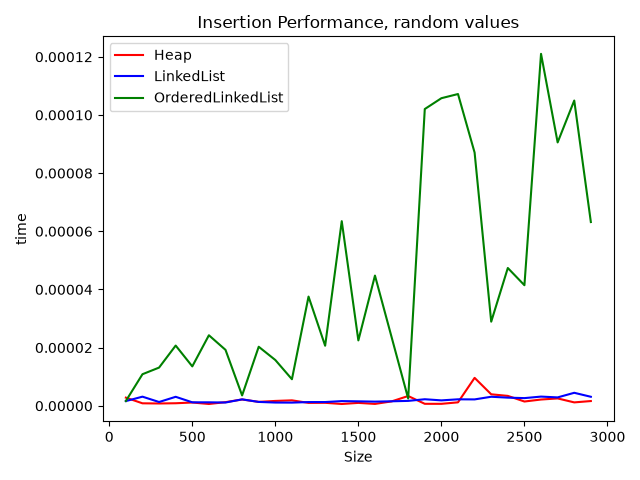
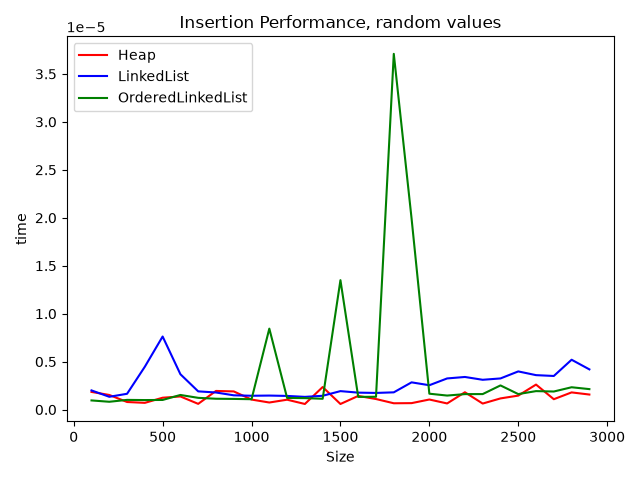
added a length field to the linked lists to make get_len faster

diff --git a/PicchioniEs1LabAlg.py b/PicchioniEs1LabAlg.py
@@ -132,9 +132,11 @@ class LinkedList:
     def __init__(self, head=None, tail=None):
         self.head = head
         self.tail = tail
-
-    def find_set(self):
-        return self.head
+        self.length = 0
+        if head is not None:
+            self.length += 1
+        if tail is not None:
+            self.length += 1
 
     def insert(self, key):
         new_node = Node(key, self, None)
@@ -143,6 +145,7 @@ class LinkedList:
         else:
             self.tail.set_next(new_node)
         self.tail = new_node
+        self.length += 1
 
     def remove(self, key):
         if self.head is None:
@@ -158,6 +161,7 @@ class LinkedList:
                     previous.set_next(node.get_next())
                     if self.tail == node:
                         self.tail = previous
+                self.length -= 1
                 return
             else:
                 previous = node
@@ -179,6 +183,7 @@ class LinkedList:
             previous.set_next(node.get_next())
             if self.tail == node:
                 self.tail = previous
+        self.length -= 1
 
     def get_max(self):
         if self.head is None:
@@ -216,7 +221,8 @@ class LinkedList:
             node_before_max.set_next(current_max_node.get_next())
         else:
             self.head = current_max_node.get_next()
-        return current_max_node
+        self.length -= 1
+        return current_max_value
 
     def increase_key(self, i, key):
         node = self.head
@@ -224,21 +230,16 @@ class LinkedList:
             print("list is empty")
             return
         for _ in range(i):
-            if node.next is None:
+            if node.get_next() is None:
                 print("index out of range")
                 return
-            node = node.next
-        if node.data > key:
+            node = node.get_next()
+        if node.get_data() > key:
             return
-        node.data = key
+        node.set_data(key)
 
     def get_len(self):
-        node = self.head
-        i = 0
-        while node is not None:
-            i += 1
-            node = node.get_next()
-        return i
+        return self.length
 
     def get_value(self, i):
         node = self.head
@@ -268,6 +269,11 @@ class OrderedLinkedList:
     def __init__(self, head=None, tail=None):
         self.head = head
         self.tail = tail
+        self.length = 0
+        if head is not None:
+            self.length += 1
+        if tail is not None:
+            self.length += 1
 
     def is_empty(self):
         return self.head is None
@@ -277,6 +283,7 @@ class OrderedLinkedList:
             new_node = Node(key, self, None)
             self.head = new_node
             self.tail = new_node
+            self.length += 1
             return
 
         node = self.head
@@ -286,19 +293,17 @@ class OrderedLinkedList:
                 new_node = Node(key, self, node)
                 if previous is not None:
                     previous.set_next(new_node)
-                else:
-                    self.head = new_node
-                    self.tail = node
+                    self.length += 1
                 return
             else:
                 previous = node
                 if node.get_next() is None:
                     new_node = Node(key, self, None)
                     node.set_next(new_node)
+                    self.length += 1
                     return
                 else:
                     node = node.next
-        print("error: no matching item to remove was found")
 
     def remove(self, key):
         if self.head is None:
@@ -314,6 +319,7 @@ class OrderedLinkedList:
                     previous.set_next(node.get_next())
                     if self.tail == node:
                         self.tail = previous
+                self.length -= 1
                 return
             else:
                 previous = node
@@ -338,28 +344,34 @@ class OrderedLinkedList:
             previous.set_next(node.get_next())
             if self.tail == node:
                 self.tail = previous
+        self.length -= 1
 
     def get_max(self):
-        return self.head
+        return self.head.get_data()
 
     def remove_max(self):
         if self.head is None:
             return
         max = self.head
         self.head = self.head.get_next()
-        return max
+        self.length -= 1
+        return max.get_data()
 
     def increase_key(self, i, new_key):
+        if self.get_value(i) > new_key:
+            print("error: new_key is lower than the current one")
+            return
         self.remove_at_index(i)
         self.insert(new_key)
 
     def get_len(self):
-        node = self.head
-        i = 0
-        while node is not None:
-            i += 1
-            node = node.get_next()
-        return i
+        return self.length
+        # node = self.head
+        # i = 0
+        # while node is not None:
+        #     i += 1
+        #     node = node.get_next()
+        # return i
 
     def get_value(self, i):
         node = self.head
